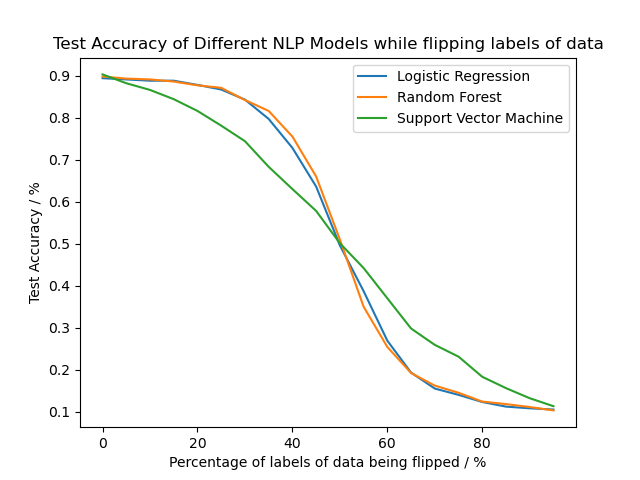
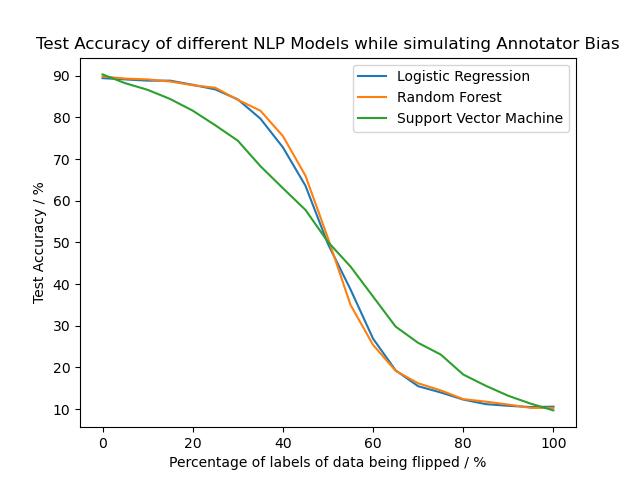
all comments etc done

diff --git a/test.py b/test.py
@@ -3,12 +3,12 @@ import pandas as pd
 import matplotlib.pyplot as plt
 import os
 """
-df = pd.read_csv('results/feature_superlative.csv')  
-df.loc[0]=0,0.894,0.941,0.930
-df.to_csv('results/feature_superlative_new.csv', index=False)
-
+df = pd.read_csv('results/annotator_full_experiment.csv')  
+df.loc[20]=100,0.106,0.103,0.097
+df.to_csv('results/annotator_full_experiment_new.csv', index=False)
 """
-file = pd.read_csv('results/feature_superlative.csv')  
+
+file = pd.read_csv('results/annotator_full_experiment_new.csv')  
 lr_accuracy= file['LR']
 rf_accuracy = file['RF']
 svm_accuracy = file['SVM']
@@ -18,16 +18,15 @@ rf_accuracy_percent = [x * 100 for x in rf_accuracy]
 svm_accuracy_percent = [x * 100 for x in svm_accuracy]
 
 
-N_list = list(range(0,80,5))
+N_list = list(range(0,105,5))
 
 ax = plt.gca()
-ax.set_ylim([25, 100])
 plt.plot(N_list, lr_accuracy_percent, label = 'Logistic Regression')
 plt.plot(N_list, rf_accuracy_percent, label = 'Random Forest')
 plt.plot(N_list, svm_accuracy_percent, label = 'Support Vector Machine')
-plt.xlabel('Percentage of tweets in the training set being poisoned / %')
+plt.xlabel('Percentage of labels of data being flipped / %')
 plt.ylabel('Test Accuracy / %')
 plt.legend()
-plt.title('Test Accuracy of different NLP Models with Superlative Forms FP Attack')
-path = os.path.join('results', 'feature_superlative_new.png')
+plt.title('Test Accuracy of different NLP Models while simulating Annotator Bias')
+path = os.path.join('results', 'annotator_full_experiment_new.png')
 plt.savefig(path)

diff --git a/annotator_bias.py b/annotator_bias.py
@@ -69,7 +69,7 @@ svm_accuracy = []
 
 # Determining if N should be run with full values or inputted value
 if args.N == False:
-    N_list = list(range(0,100, 5))
+    N_list = list(range(0,105, 5))
 else:
     N_list = args.N
 
